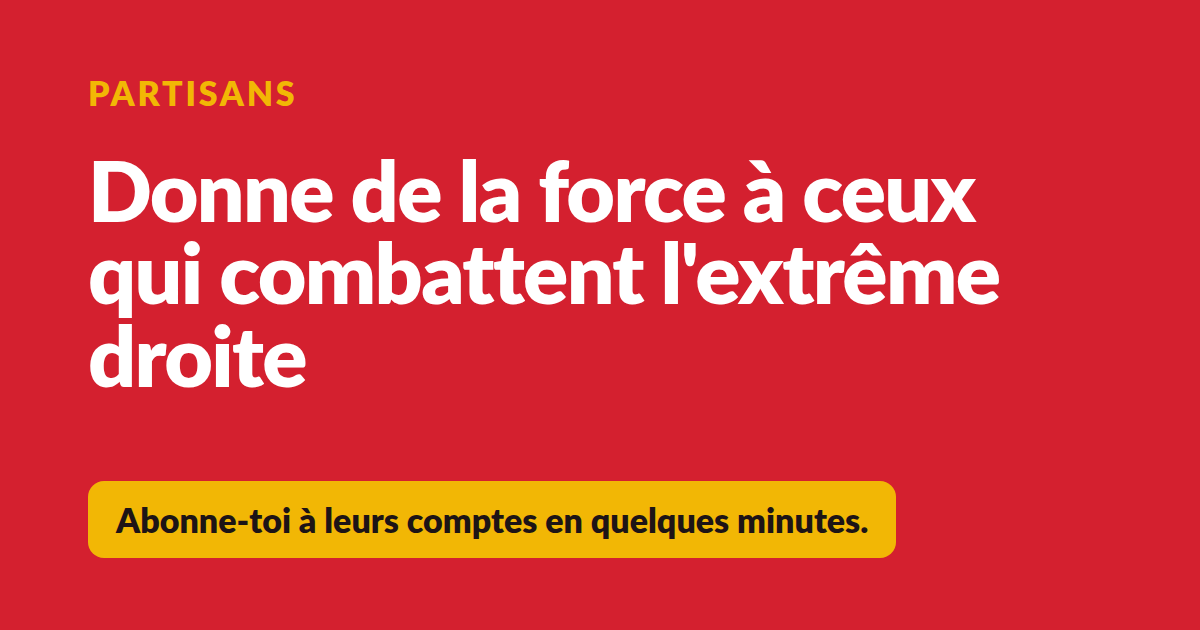
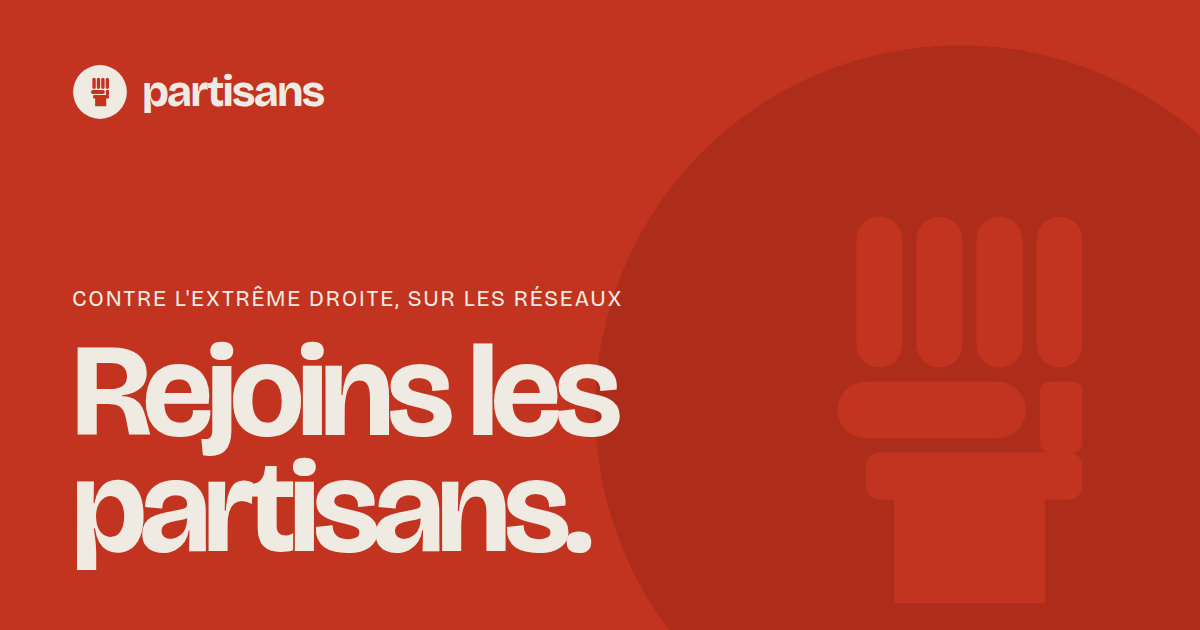
Image d'aperçu du lien dans la nouvelle identité

diff --git a/scripts/partage.html b/scripts/partage.html
@@ -4,33 +4,64 @@
   Pour la régénérer : ouvrir ce fichier dans un navigateur dont la fenêtre fait 1200 × 630
   (Playwright : browser_resize puis browser_take_screenshot), puis retirer les métadonnées :
     convert capture.png -depth 8 -strip -define png:exclude-chunks=date,time site/partage.png
-  Polices : Lato Black si elle est installée, sinon celle du système.
+  Polices du site (../site/polices/) : servir le dépôt depuis sa racine avec
+  python3 -m http.server 8001 --bind 127.0.0.1, puis ouvrir http://localhost:8001/scripts/partage.html
 -->
 <html lang="fr">
 <head>
   <meta charset="utf-8">
   <title>Partisans : image de partage</title>
   <style>
+    @font-face {
+      font-family: 'Bricolage Grotesque';
+      src: url(../site/polices/bricolage-grotesque.woff2) format('woff2');
+      font-weight: 400 700;
+    }
     html, body { margin: 0; }
     body {
+      position: relative;
       width: 1200px;
       height: 630px;
       box-sizing: border-box;
-      padding: 72px 88px;
+      padding: 64px 72px;
+      overflow: hidden;
       display: flex;
       flex-direction: column;
-      background: #d4202f;
-      color: #fff;
-      font-family: Lato, system-ui, sans-serif;
+      background: #C2341F;
+      color: #EFEBE3;
+      font-family: 'Bricolage Grotesque', system-ui, sans-serif;
     }
-    .marque { margin: 0; color: #f2b705; font-weight: 900; font-size: 34px; letter-spacing: 0.08em; }
-    h1 { margin: 36px 0 0; max-width: 940px; font-weight: 900; font-size: 84px; line-height: 0.98; letter-spacing: -0.02em; }
-    .appel { margin: auto 0 0; display: inline-block; align-self: flex-start; padding: 18px 28px; border-radius: 16px; background: #f2b705; color: #1d1416; font-weight: 900; font-size: 34px; }
+    /* Grand poing ton sur ton : le disque déborde à droite et en bas, le poing reste entier. */
+    .poing {
+      position: absolute;
+      right: -140px;
+      bottom: -160px;
+      width: 760px;
+      height: 760px;
+      background: #AD2D1A;
+      -webkit-mask: url(../site/img/symbole.svg) center / contain no-repeat;
+      mask: url(../site/img/symbole.svg) center / contain no-repeat;
+    }
+    .logo { position: relative; display: flex; align-items: center; gap: 14px; }
+    .symbole {
+      width: 56px;
+      height: 56px;
+      background: #EFEBE3;
+      -webkit-mask: url(../site/img/symbole.svg) center / contain no-repeat;
+      mask: url(../site/img/symbole.svg) center / contain no-repeat;
+    }
+    .logotype { font-weight: 700; font-size: 44px; line-height: 1; letter-spacing: -0.04em; }
+    .bas { position: relative; margin-top: auto; }
+    .surtitre { margin: 0 0 22px; font-weight: 400; font-size: 22px; letter-spacing: 0.08em; text-transform: uppercase; }
+    h1 { margin: 0; max-width: 640px; font-weight: 700; font-size: 132px; line-height: 0.88; letter-spacing: -0.05em; }
   </style>
 </head>
 <body>
-  <p class="marque">PARTISANS</p>
-  <h1>Donne de la force à ceux qui combattent l'extrême droite</h1>
-  <p class="appel">Abonne-toi à leurs comptes en quelques minutes.</p>
+  <span class="poing"></span>
+  <div class="logo"><span class="symbole"></span><span class="logotype">partisans</span></div>
+  <div class="bas">
+    <p class="surtitre">Contre l'extrême droite, sur les réseaux</p>
+    <h1>Rejoins les partisans.</h1>
+  </div>
 </body>
 </html>
